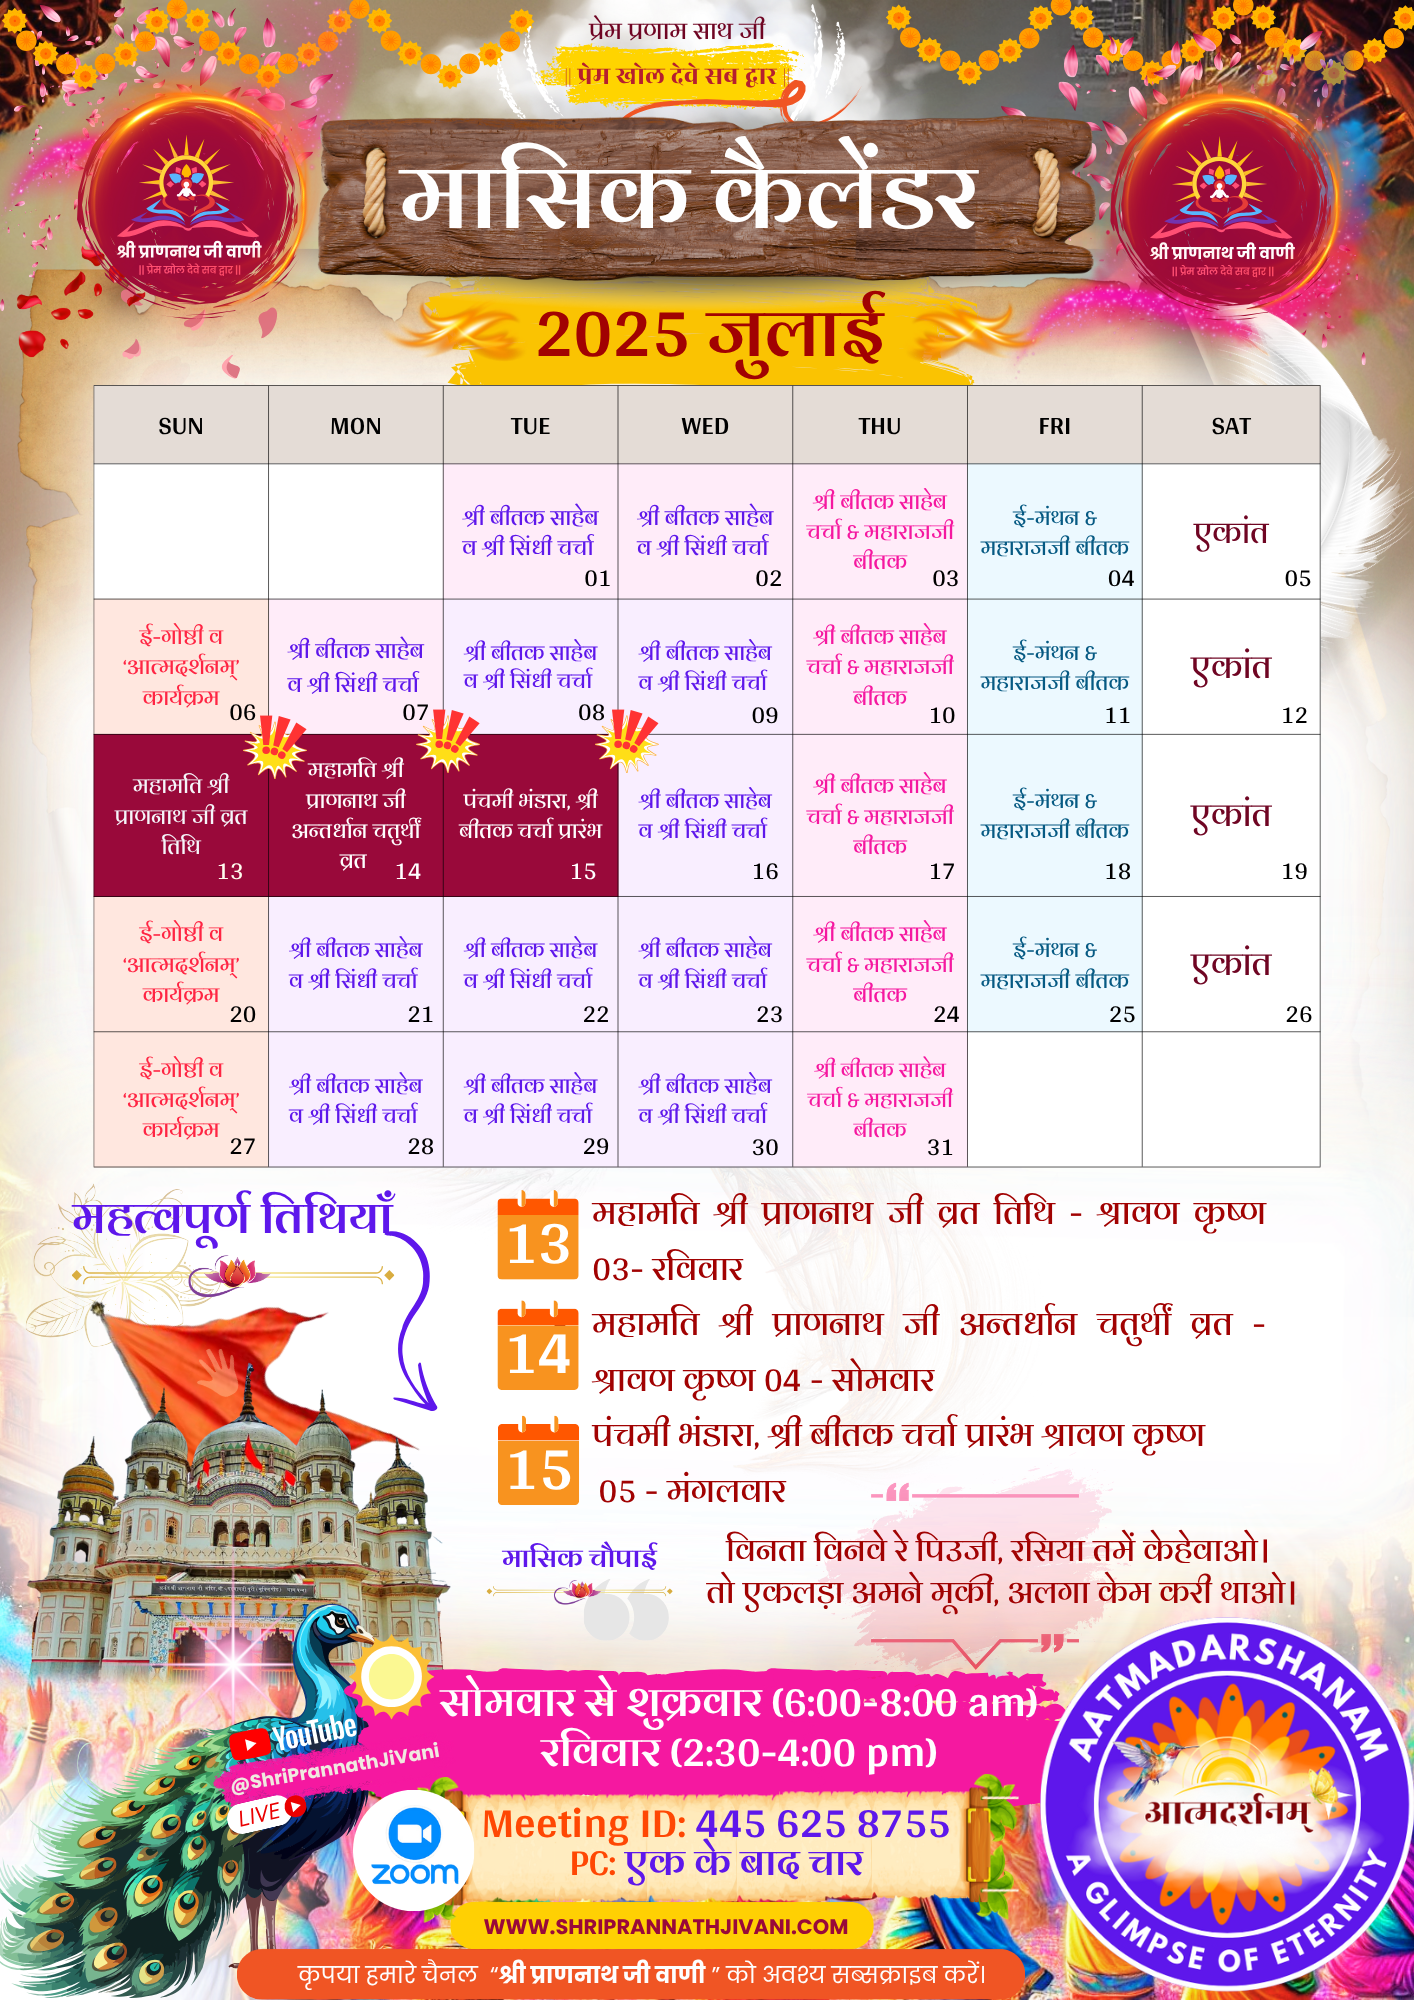
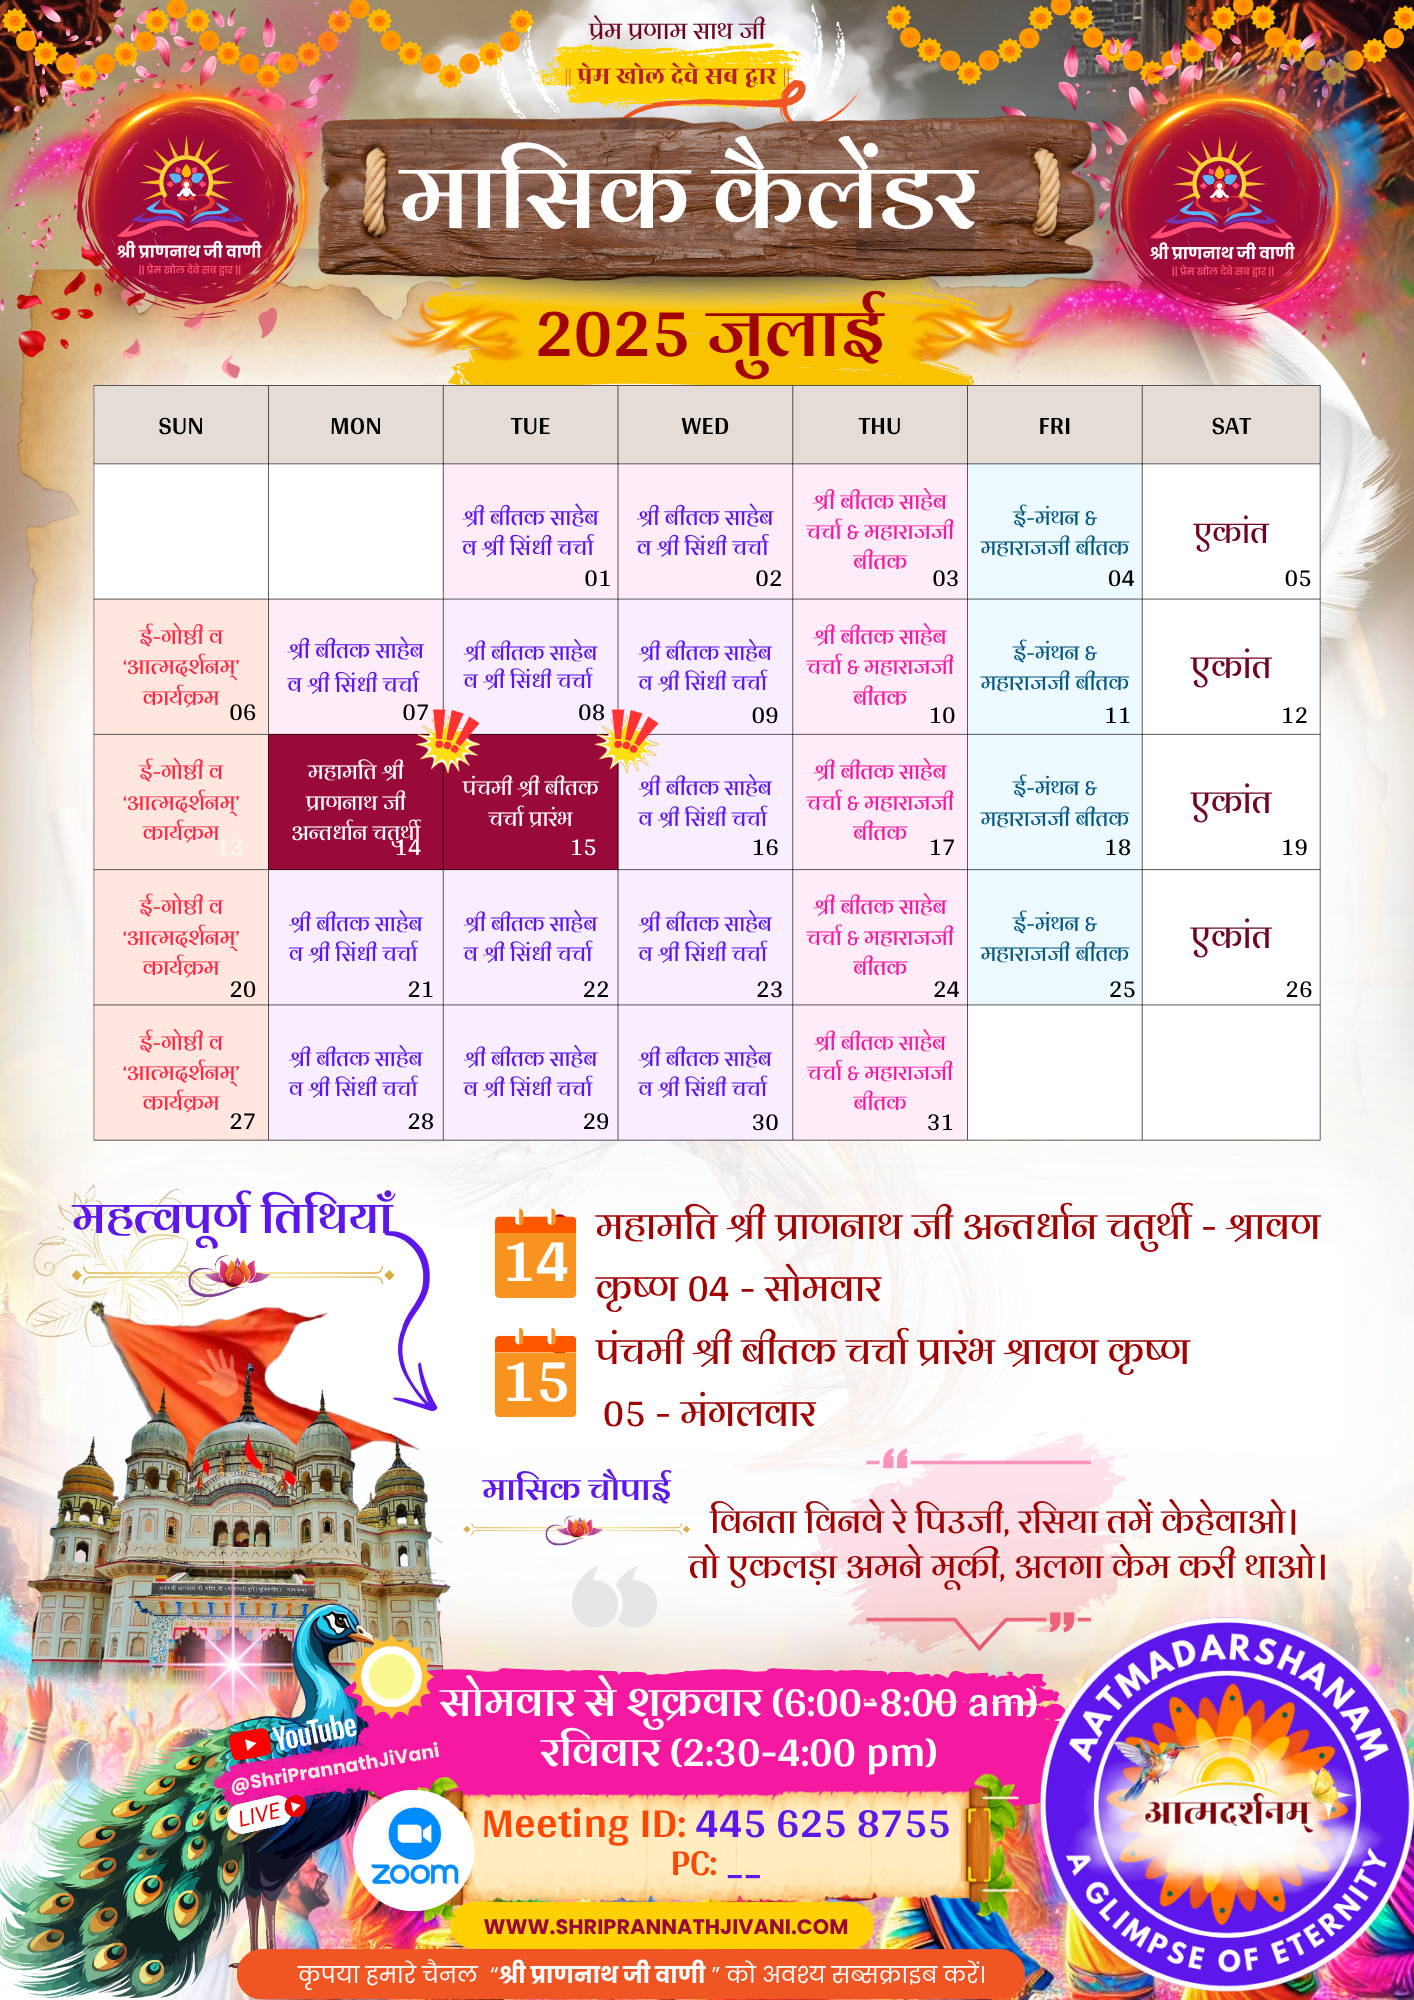
updated calendar

diff --git a/assets/js/calendar.js b/assets/js/calendar.js
@@ -119,12 +119,6 @@ const events = {
         textColor: "#fff",
         image: ""
     },
-    "2025-07-13": {
-        text: "महामति श्री प्राणनाथ जी व्रत तिथि  श्रावण कृष्ण 03 रविवार",
-        bgColor: "#99093a",
-        textColor: "#fff",
-        image: ""
-    },
     "2025-07-14": {
         text: "महामति श्री प्राणनाथ जी अन्तर्धान चतुर्थीं व्रत श्रावण कृष्ण 04 सोमवार",
         bgColor: "#99093a",
